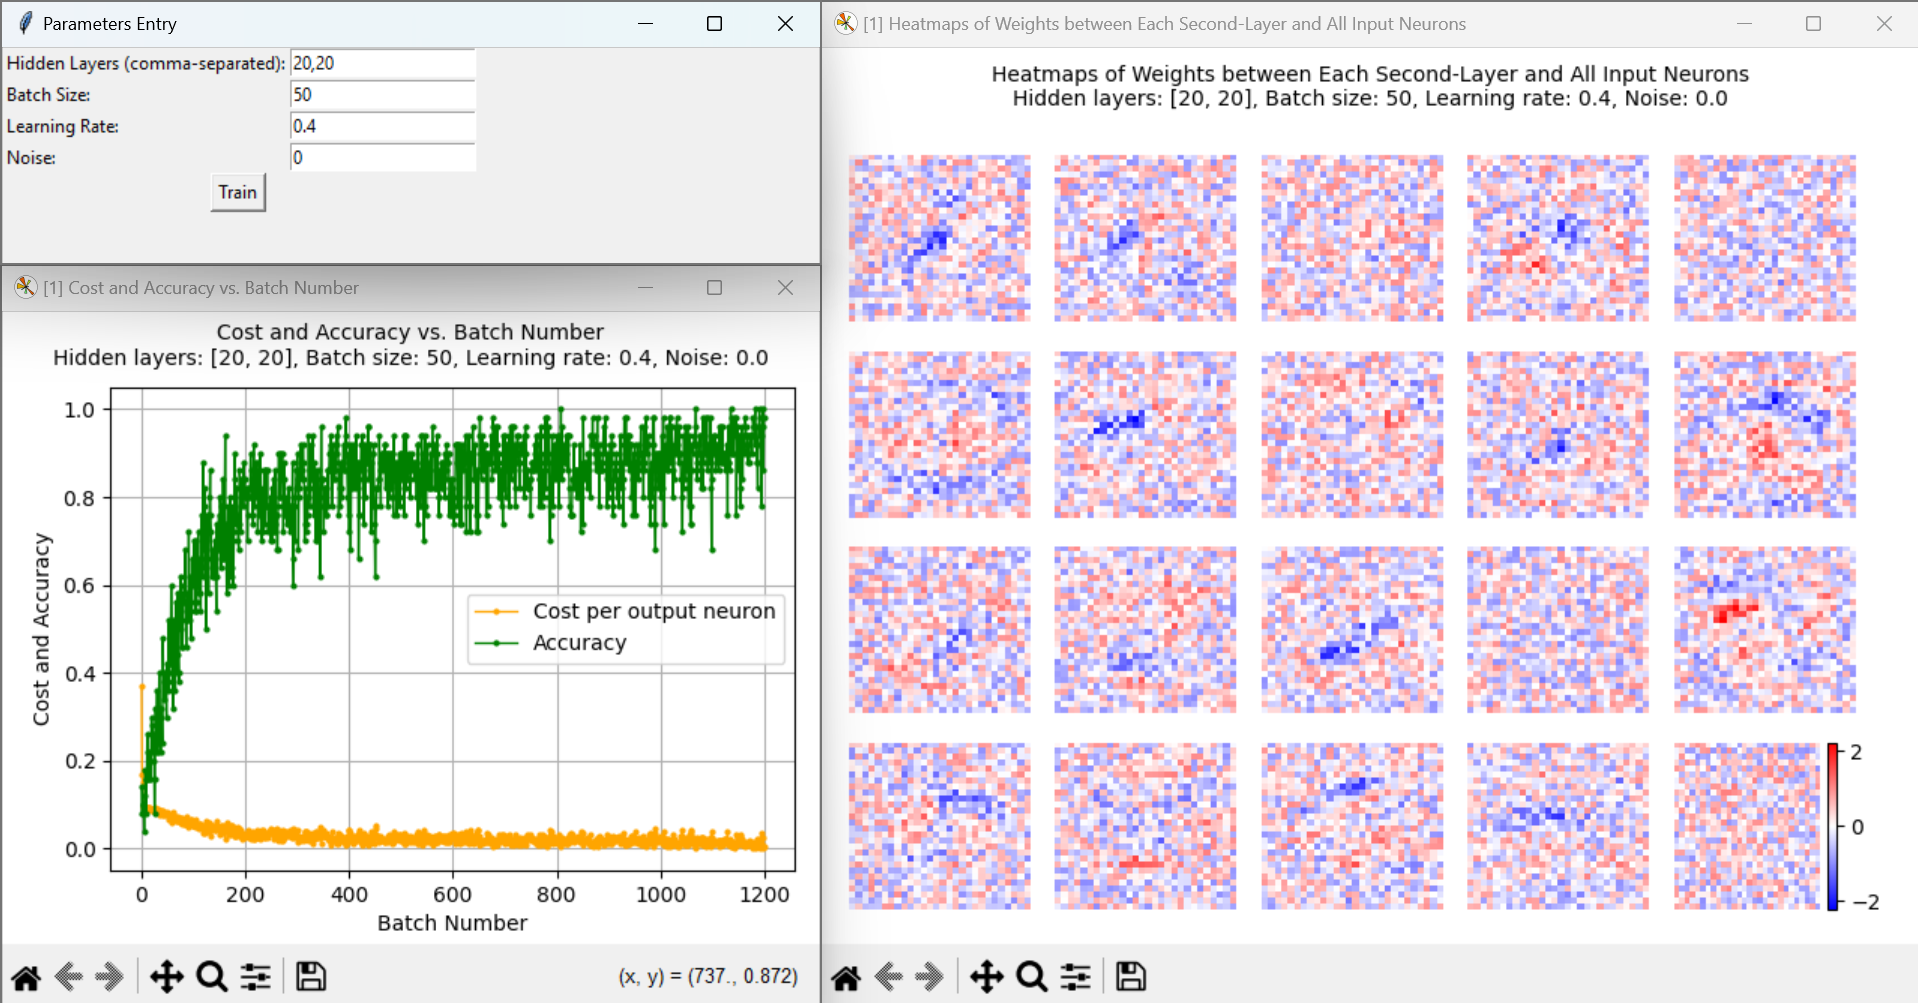
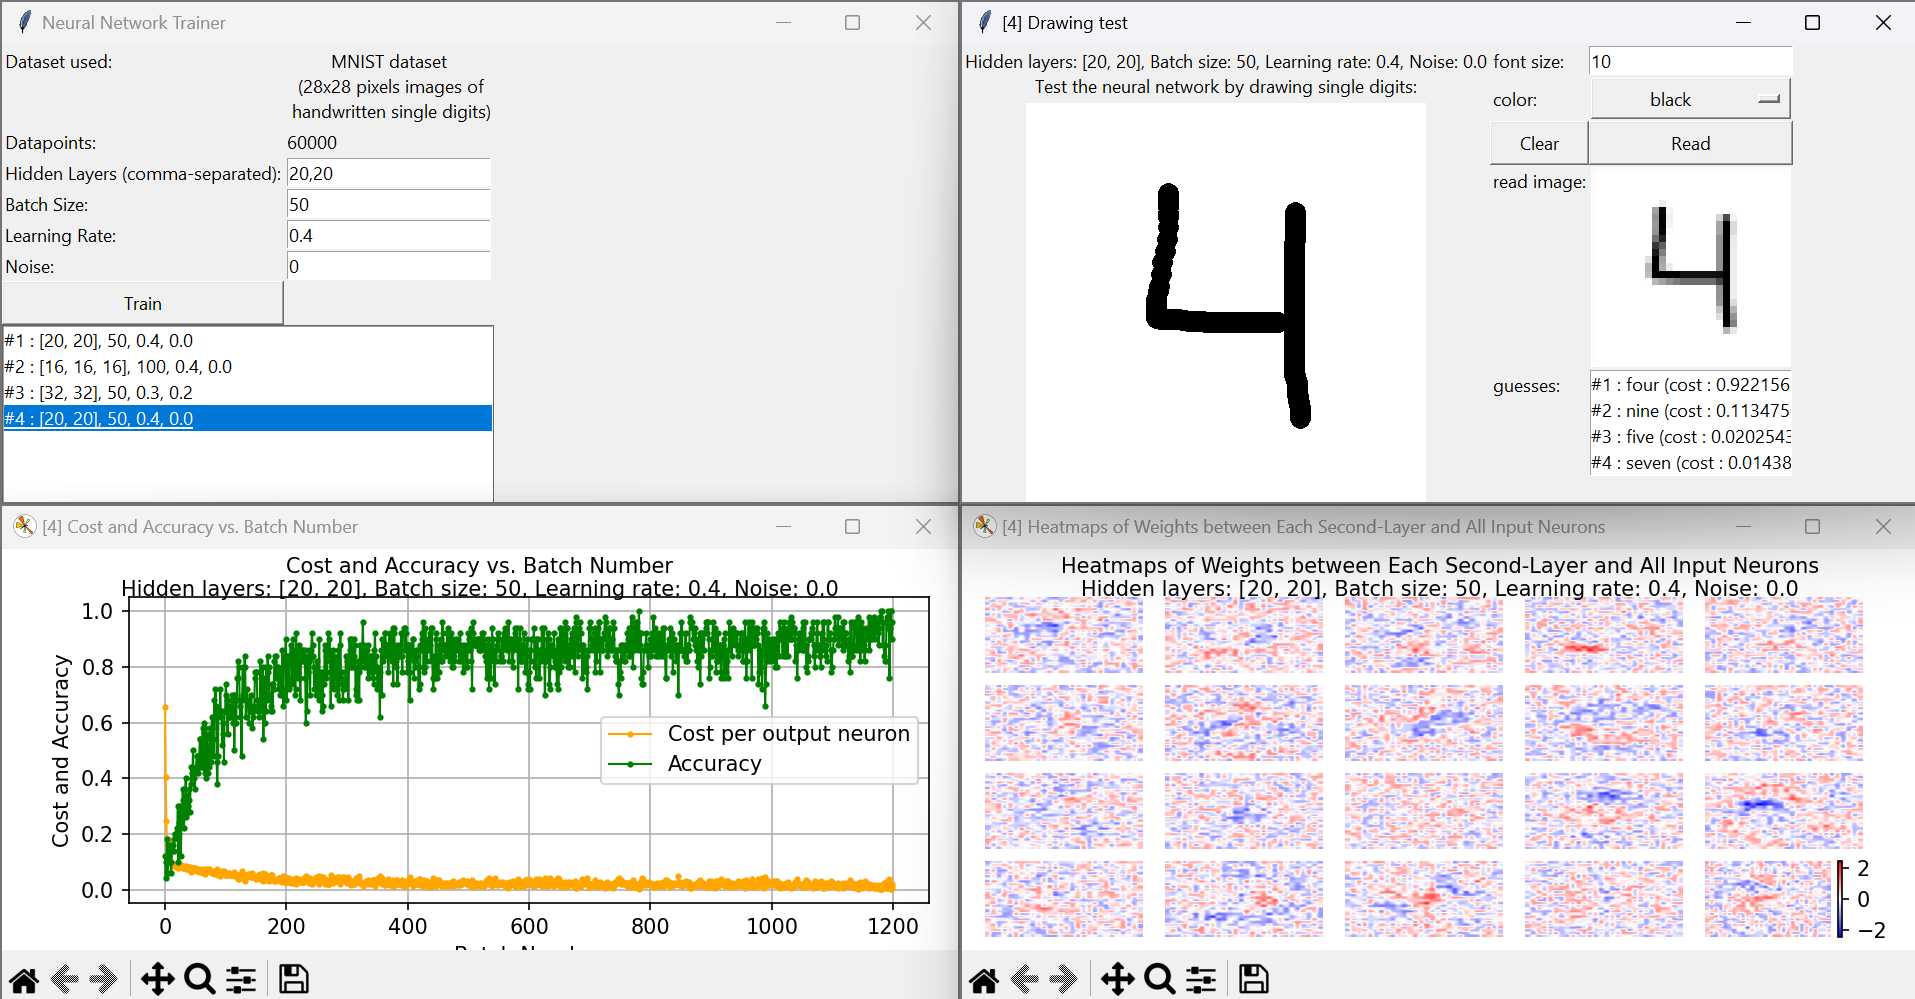
Update demo and readme for drawing interface

diff --git a/main.py b/main.py
@@ -252,7 +252,7 @@ def on_item_select(event):
         canvas_layout = tk.Frame(drawing_window, width=400)
         canvas_layout.grid(row=0, column=0, sticky='n')
 
-        tk.Label(canvas_layout, text='Test the neural network by drawing single digits:', anchor='w').grid(row=0, column=0, sticky='ew')
+        tk.Label(canvas_layout, text=f'{parameters_info}\nTest the neural network by drawing single digits:', anchor='w').grid(row=0, column=0, sticky='ew')
         canvas = tk.Canvas(canvas_layout, width=400, height=400, bg='white')
         canvas.grid(row=1, column=0)
         canvas.bind("<B1-Motion>", draw)

diff --git a/README.md b/README.md
@@ -1,11 +1,14 @@
 This project implements a Fully Connected Neural Network with the algorithm built from scratch, without using high-level ML libraries. 
 The network is trained on the MNIST dataset.
-It uses a tkinter GUI to customize these 4 parameters : hidden layers (number of layers and number of neurons per layer), learning rate, batch size and noise. 
+The home window has entries to customize these 4 parameters : hidden layers (number of layers and number of neurons per layer), learning rate, batch size and noise. 
 After training, the neural network is stored on a list.
-Clicking on a neural network in the list will display the following (the plots are pyplots from matplotlib):
+Clicking on a neural network in the list will display the following:
   - Drawing interface where the neural network guesses the digit that is drawn.
   - Plot of accuracy and average cost per output neuron vs. batch number
   - Heatmaps of the weights between each second-layer neuron and all input neurons
+Interface libraries used:
+  - Tkinter in general
+  - Matplotlib for the plots
 
 Demo:
 ![This is a demo of the application](https://github.com/kenyamabro/better-neural-network/blob/main/demo.png)
